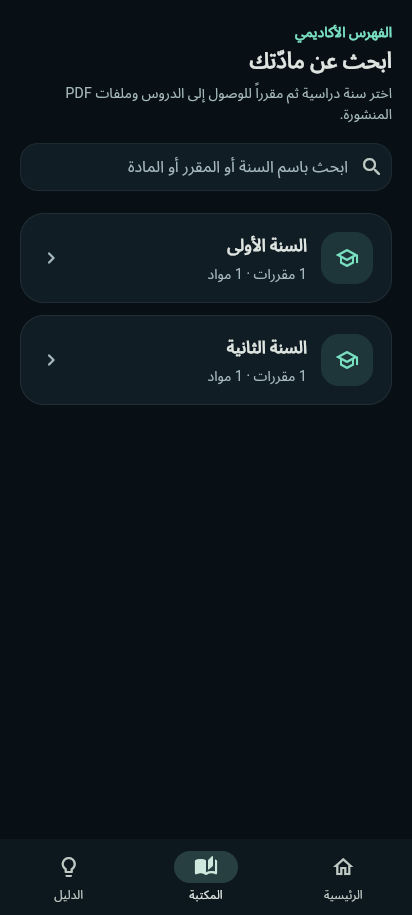
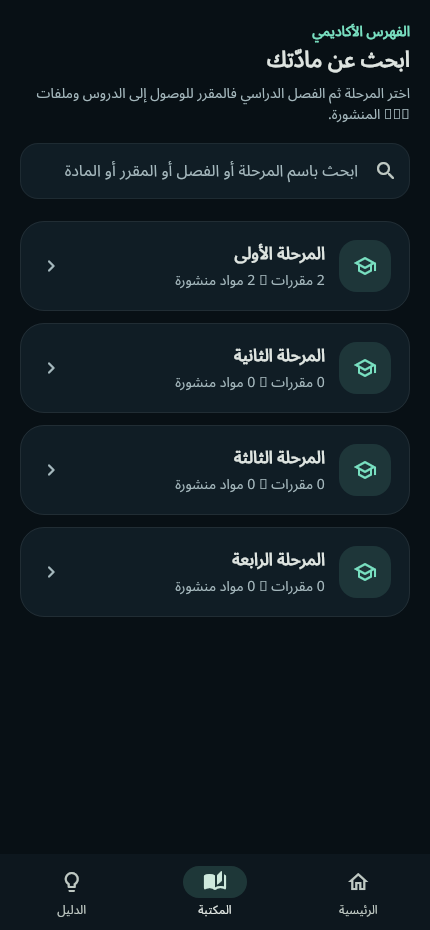
docs: refresh reader interface screenshots

diff --git a/docs/SCREENSHOT_NOTES.md b/docs/SCREENSHOT_NOTES.md
@@ -1,5 +1,7 @@
 # Screenshot Notes
 
-The images in `../images/` show the **Kunooze Library** reader interface at a mobile-sized viewport. They are included to explain the public reader experience: the Arabic right-to-left home screen, academic catalogue, and student guide.
+The images in `../images/` were newly rendered from the final **Kunooze Library v1.0.0 Reader** interface at a `430 × 930` mobile viewport. They show the Arabic right-to-left Reader home screen, academic catalogue, and student guide.
 
-The academic labels and counts visible in the screenshots are illustrative interface data. Live materials, announcements, stages, semesters, subjects, and PDFs are controlled by the library owner and can change after publication. The screenshots do not contain student records, private credentials, publisher functionality, or unpublished resources.
+The capture scenario uses the Reader's final interface structure and a safe illustrative academic catalogue so that the screen can visibly demonstrate four stages, semesters, subjects, materials, search, and an active notice. Live materials, announcements, stages, semesters, subjects, and PDFs are controlled by the library owner and can change after publication.
+
+The screenshots contain no student records, private credentials, publisher functionality, owner controls, or unpublished resources. Every image in this public repository is a **Reader-only** image.
